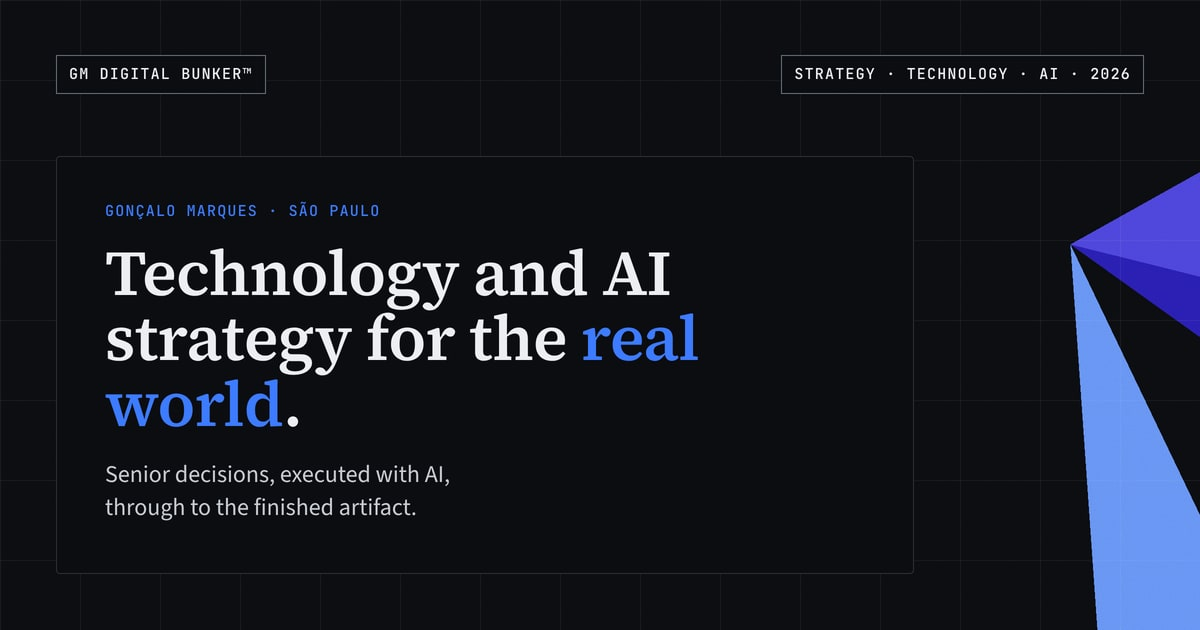
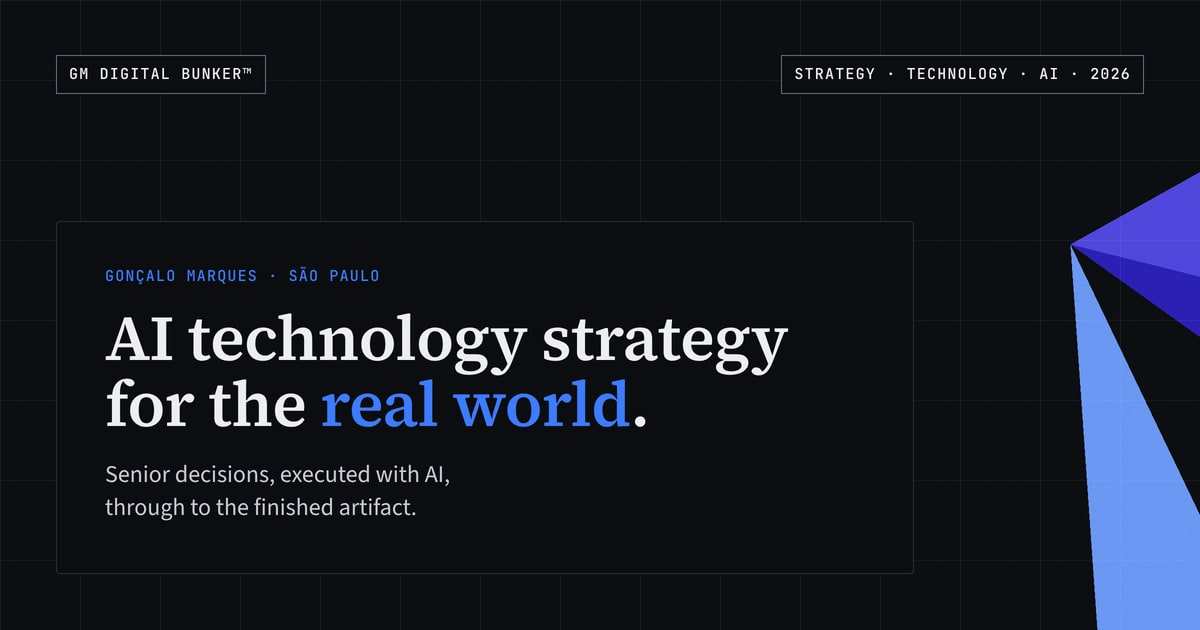
English wording: "AI technology strategy"
Mirrors the Portuguese decision ("Estratégia de tecnologia em IA") on the
English pages: hero title, lead, meta description, footer tagline, og:image:alt,
job title (About) and Services opening. English OG image regenerated.

Claude-Session: https://claude.ai/code/session_017tXnqNFXPURVFWBipceVay

Changed region(s): [[0.0925, 0.3921, 0.6783, 0.6937], [0.0617, 0.3016, 0.3392, 0.3619]]

diff --git a/src/content/home.ts b/src/content/home.ts
@@ -117,13 +117,13 @@ export const home: Record<Lang, HomeContent> = {
 
   en: {
     title: 'GM Digital Bunker™',
-    description: 'Technology and AI strategy for the real world. Senior decisions, executed with AI, through to the finished artifact, for small and mid-sized companies.',
+    description: 'AI technology strategy for the real world. Senior decisions, executed with AI, through to the finished artifact, for small and mid-sized companies.',
     jsonLdDescription: 'Independent technology strategy practice focused on the advanced application of artificial intelligence, from strategic analysis to the production of technical and communication artifacts.',
     hero: {
       meta: 'Strategy · Technology · AI · 2026',
       whoHtml: '<a href="/en/about">Gonçalo Marques</a> · São Paulo',
-      titleHtml: 'Technology and AI strategy for the <span>real world</span>.',
-      lead: 'For small and mid-sized companies that need to decide and execute on technology and AI, from strategic analysis to the finished artifact.',
+      titleHtml: 'AI technology strategy for the <span>real world</span>.',
+      lead: 'For small and mid-sized companies that need to decide and execute on AI technology, from strategic analysis to the finished artifact.',
       services: 'See services', method: 'Learn the method', pause: 'Pause animation', resume: 'Resume animation',
     },
     s1: {

diff --git a/src/i18n/ui.ts b/src/i18n/ui.ts
@@ -42,7 +42,7 @@ export const ui = {
     menu: { open: 'Menu', close: 'Close menu' },
     theme: { toLight: 'Switch to light theme', toDark: 'Switch to dark theme' },
     langSwitch: { code: 'PT', label: 'Versão em português', hreflang: 'pt-BR' },
-    footer: { tagline: 'Technology and AI strategy for the real world.', pages: 'Pages', also: 'Also', book: 'Book on Amazon', linkedin: 'LinkedIn', privacy: 'Privacy', external: 'external site', pagesNav: 'Footer – pages', externalNav: 'Footer – external destinations', current: 'EN', other: 'PT' },
+    footer: { tagline: 'AI technology strategy for the real world.', pages: 'Pages', also: 'Also', book: 'Book on Amazon', linkedin: 'LinkedIn', privacy: 'Privacy', external: 'external site', pagesNav: 'Footer – pages', externalNav: 'Footer – external destinations', current: 'EN', other: 'PT' },
     crumbsHome: 'Home',
     crumbsLabel: 'You are here',
     invite: "Let's talk about where and when it's better with AI in your business.",

diff --git a/scripts/og/og-en.html b/scripts/og/og-en.html
@@ -33,7 +33,7 @@
   <p class="meta meta--r">Strategy · Technology · AI · 2026</p>
   <div class="plate">
     <p class="eyebrow">Gonçalo Marques · São Paulo</p>
-    <h1>Technology and AI strategy for the <span>real world</span>.</h1>
+    <h1>AI technology strategy for the <span>real world</span>.</h1>
     <p class="lead">Senior decisions, executed with AI, through to the finished artifact.</p>
   </div>
 </div>
